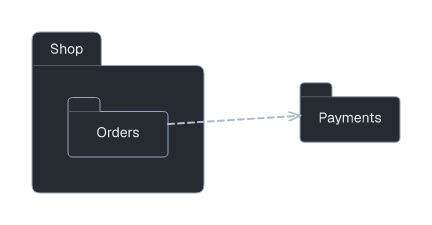
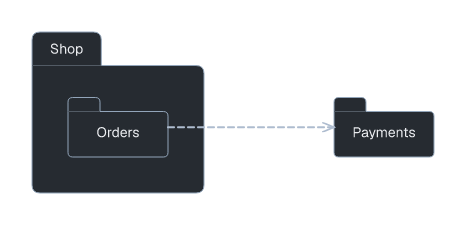
Align package quickstart dependency horizontally

diff --git a/tests/package_diagram.rs b/tests/package_diagram.rs
@@ -47,6 +47,29 @@ fn package_diagram_has_nested_groups_and_distinct_dependency_keywords() {
 }
 
 #[test]
+fn quickstart_dependency_leaves_nested_package_horizontally() {
+    let source = include_str!("../examples/package-quickstart.laml");
+    for theme in ["modern", "modern-dark"] {
+        let source = source.replace("type: package", &format!("type: package\ntheme: {theme}"));
+        let diagram = parse(&source).unwrap();
+        let sheet = load(&diagram, Path::new("examples/package-quickstart.laml")).unwrap();
+        let boxes = place(&diagram, &sheet).unwrap();
+        let routes = route(&diagram, &boxes, &sheet).unwrap();
+        let points = &routes[0].points;
+        assert_eq!(
+            points.len(),
+            2,
+            "{theme}: dependency should run directly right"
+        );
+        assert!(points[1].x > points[0].x);
+        assert!(
+            (points[1].y - points[0].y).abs() < 1e-6,
+            "{theme}: sloped dependency"
+        );
+    }
+}
+
+#[test]
 fn unmarked_dependency_is_not_a_package_import() {
     let diagram = parse(&source("package A\npackage B\nA ..> B")).unwrap();
     assert_eq!(diagram.relations.len(), 1);

diff --git a/docs/diagrams/package.md b/docs/diagrams/package.md
@@ -13,6 +13,9 @@ semantics {
     package Payments
     Shop.Orders ..> Payments
 }
+layout {
+    Shop.Orders < Payments : align=center; gap=130
+}
 ```
 
 <picture>
@@ -20,7 +23,7 @@ semantics {
   <img src="../images/package-quickstart-modern.png" alt="Nested Shop package with a dependency on Payments">
 </picture>
 
-[Complete source](../../examples/package-quickstart.laml). Braces enclose a package; `Shop.Orders` addresses its nested package. `..>` is a dependency.
+[Complete source](../../examples/package-quickstart.laml). Braces enclose a package; `Shop.Orders` addresses its nested package. `..>` is a dependency. The placement rule aligns the two package centers so the dependency runs horizontally.
 
 ## Imports, access and merge
 
